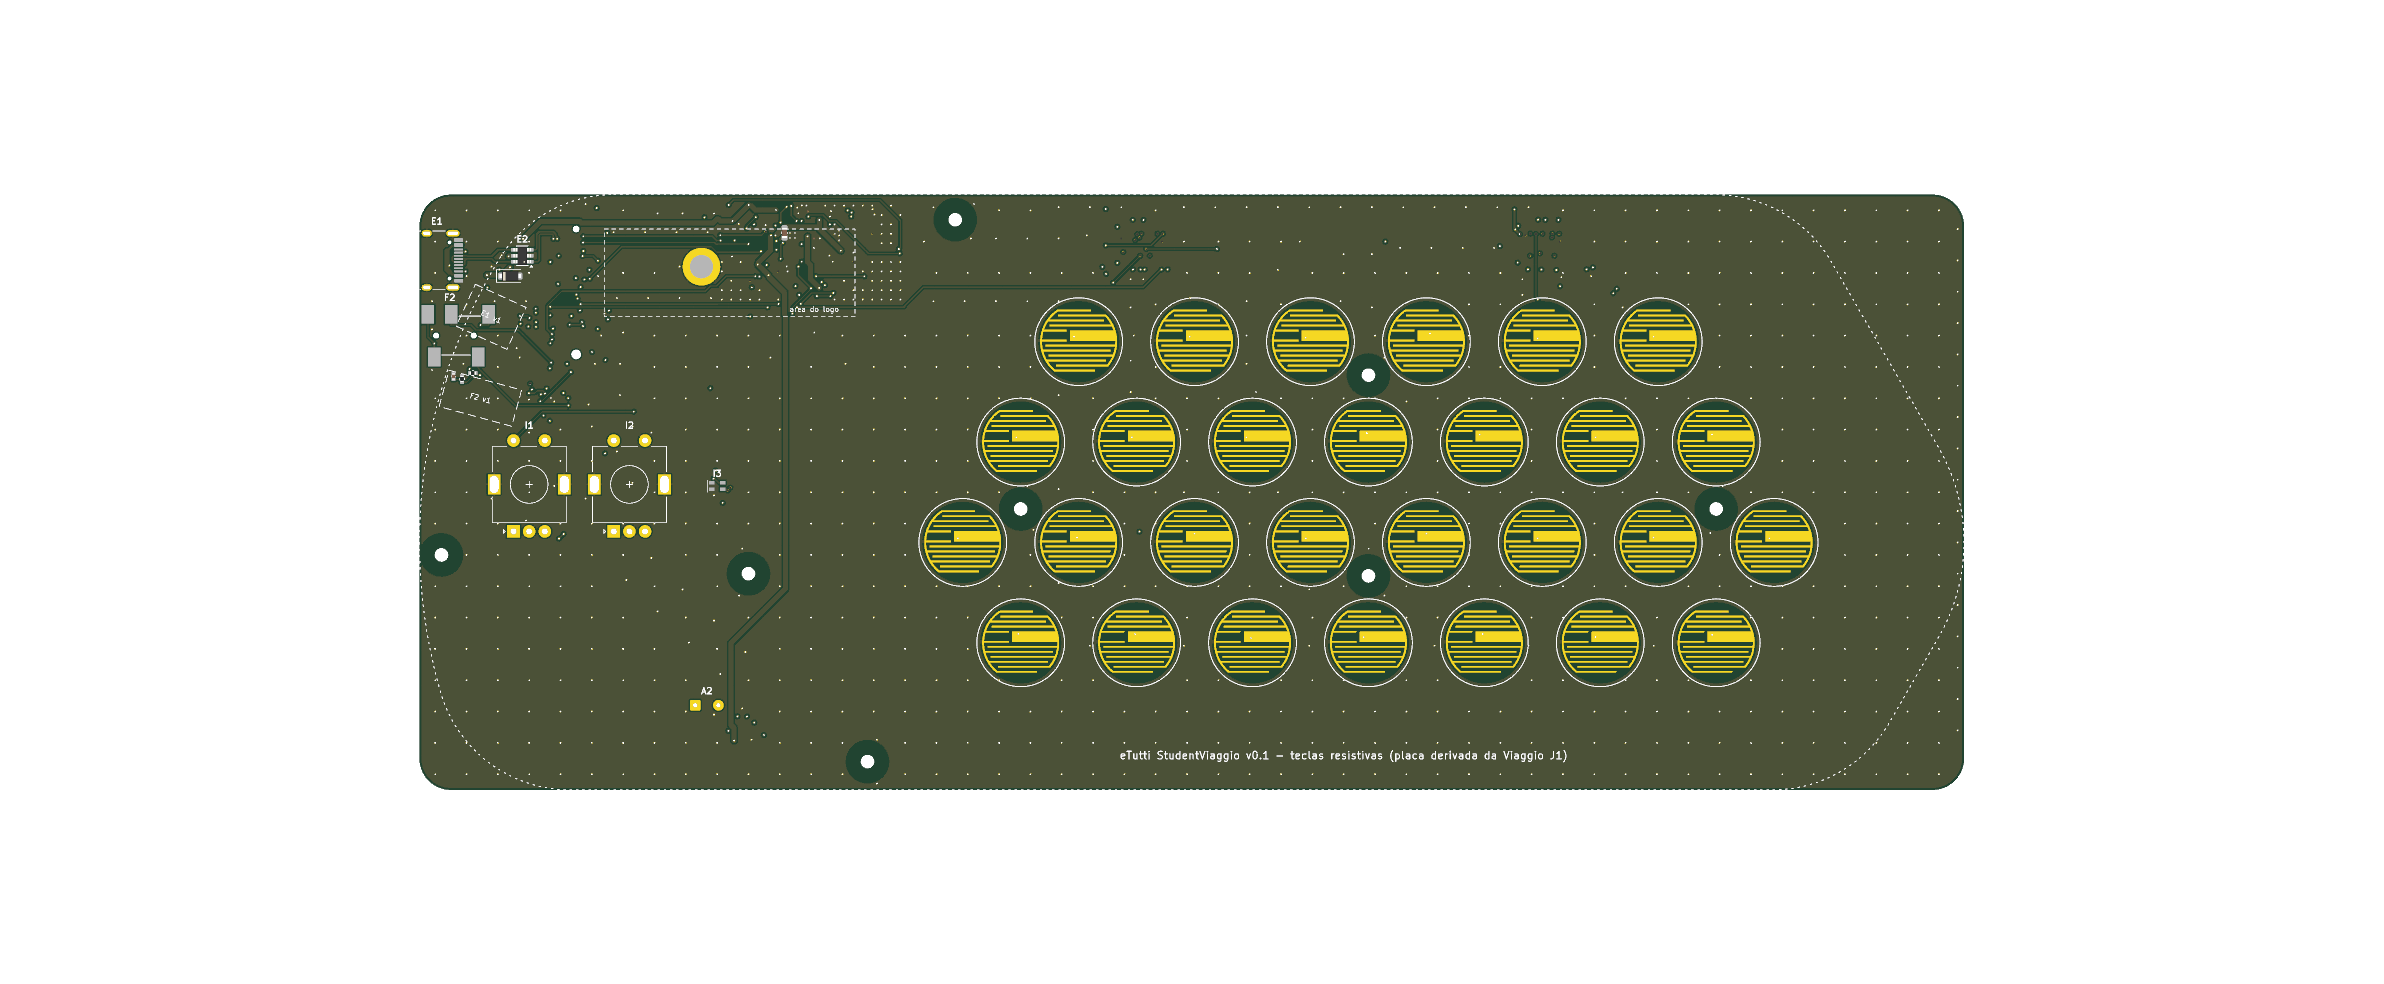
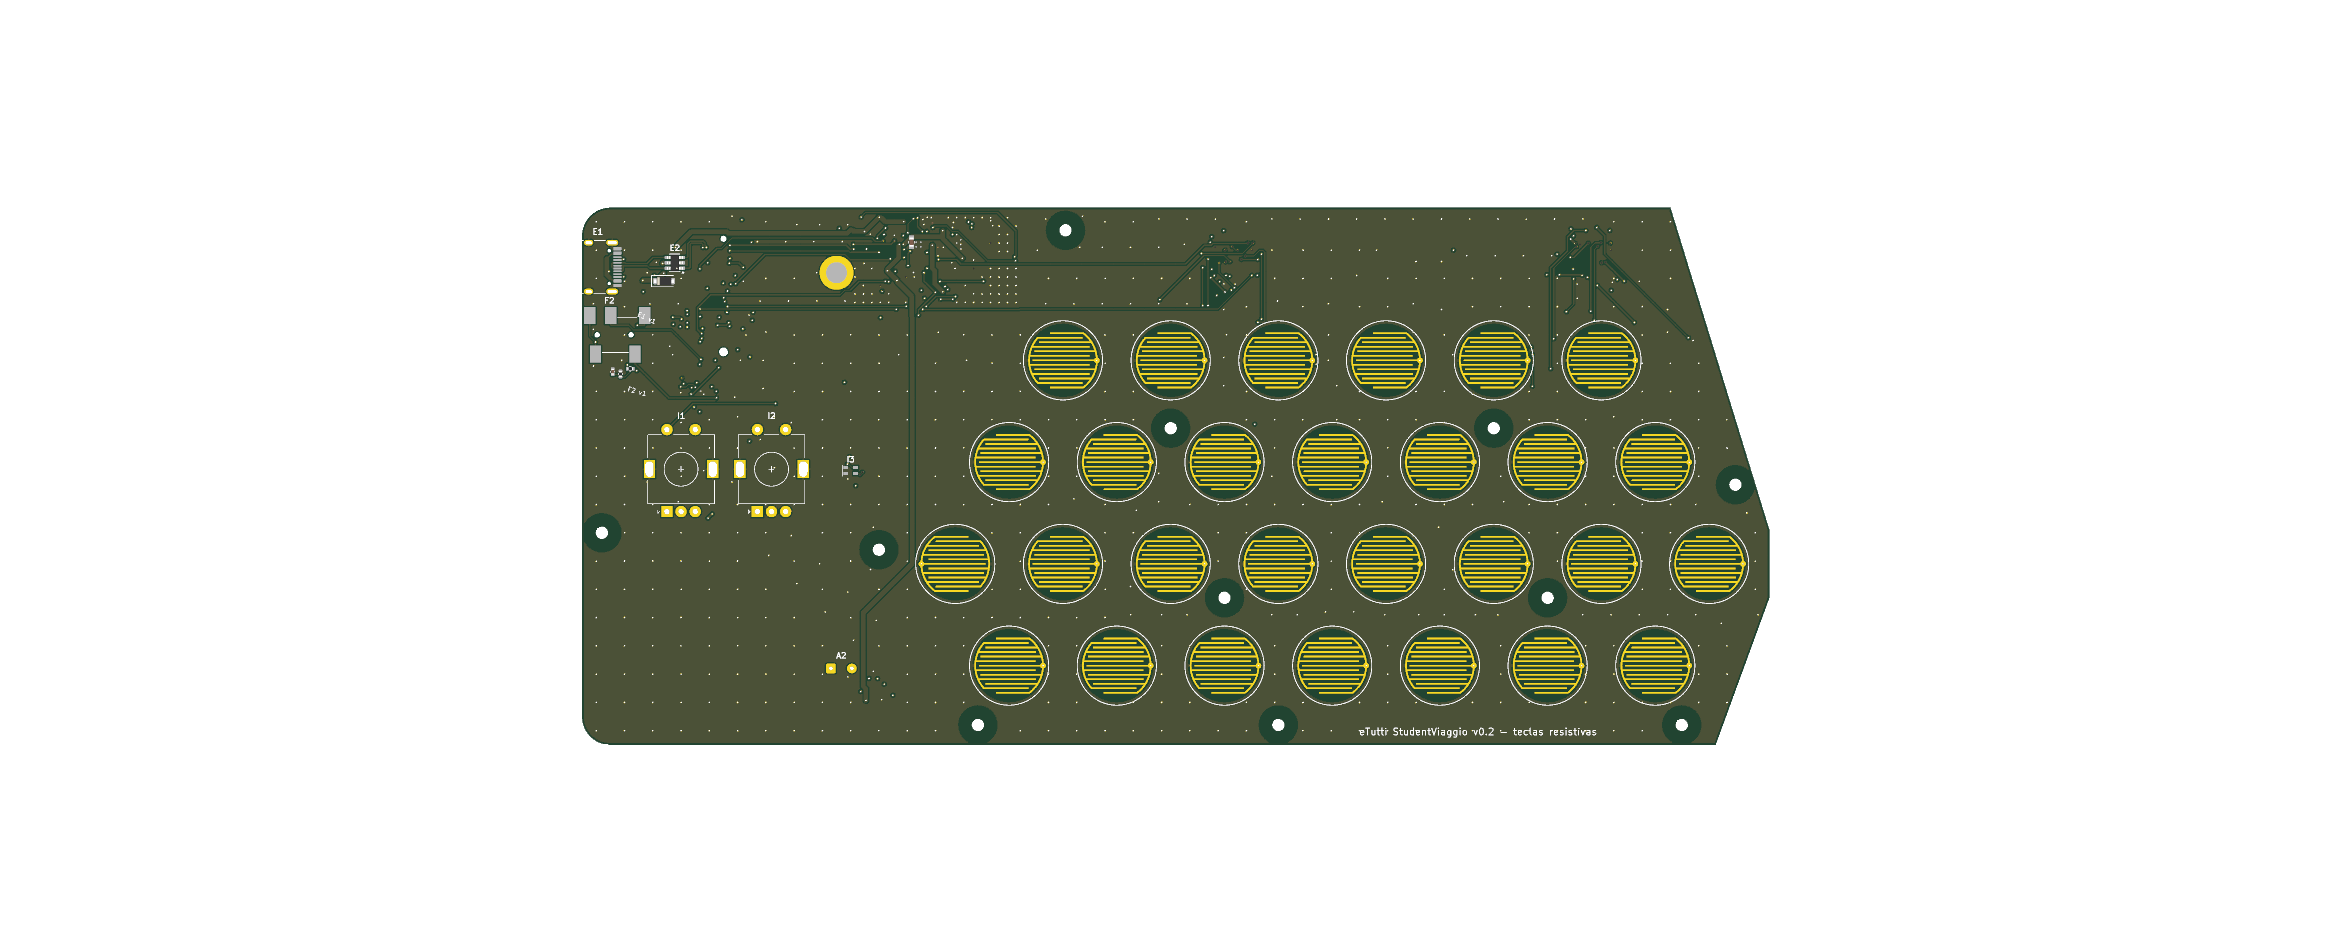
StudentViaggio v0.2: flex check, pictures, report
- mechanics.py: handles a pillar on a key's own grid node, own caption; 0.122 mm
  on the 11 holes alone, 0.039 mm with 6 proposed case pillars (flexao.json).
- README.md rewritten for the compact board; new board and key pictures
  (tecla_img.py); PINOS.md regenerated; handoff notes removed.
- CLAUDE.md: v0.2 summary, run order, routing gotcha.

Changed region(s): [[0.1552, 0.1828, 0.838, 0.8225], [0.2793, 0.7006, 0.3104, 0.7311]]

diff --git a/etutti/hardware/student_viaggio/pcb/mechanics.py b/etutti/hardware/student_viaggio/pcb/mechanics.py
@@ -47,6 +47,35 @@ def inside(p, margin):
     return True
 
 
+def sag(gr, supports, loads):
+    """M.Grillage.sag, plus keys that sit right on a support (0 mm). The back of this board is
+    free under the keys, so a pillar can land on a key's own grid node; the J1's never could."""
+    fixed = {gr.nearest(x, y) for x, y in supports}
+    live = [i for i, p in enumerate(loads) if gr.nearest(*p) not in fixed]
+    out = [0.0] * len(loads)
+    for i, v in zip(live, gr.sag(supports, [loads[i] for i in live])):
+        out[i] = v
+    return out
+
+
+def caption(path, n_holes):
+    """M.picture writes the J1's caption: put this board's over it."""
+    from PIL import Image, ImageDraw, ImageFont
+    img = Image.open(path)
+    d = ImageDraw.Draw(img)
+    try:
+        f = ImageFont.truetype("arial.ttf", 13)
+    except OSError:
+        f = ImageFont.load_default()
+    d.rectangle([0, 0, img.width, 38], fill=(255, 255, 255))
+    d.text((6, 4), "StudentViaggio v0.2 - flexao a 3 N por tecla (grelha 4 mm, placa nua de 1,2 mm), vista de cima."
+           " Azul: furos M2. Vermelho: pilares propostos.",
+           fill=(0, 0, 0), font=f)
+    d.text((6, 20), "Numero em cada tecla: flexao em centesimos de mm, so com os %d furos / com os pilares." % n_holes,
+           fill=(0, 0, 0), font=f)
+    img.save(path)
+
+
 def main():
     import pcbnew
     b = pcbnew.LoadBoard(BOARD)
@@ -67,7 +96,7 @@ def main():
     gr = M.Grillage()
     loads = [(x, y) for _r, x, y in keys]
     sup = [(x, y) for _r, x, y in holes]
-    s0 = gr.sag(sup, loads)
+    s0 = sag(gr, sup, loads)
     spots = [p for p in M.free_spots(boxes, holes) if inside(p, 3.0)]
     pillars, s = [], list(s0)
     while max(s) > M.TARGET_MM and len(pillars) < 60:
@@ -78,7 +107,7 @@ def main():
         if pick is None:
             break
         pillars.append(pick)
-        s = gr.sag(sup + pillars, loads)
+        s = sag(gr, sup + pillars, loads)
     w0 = max(range(len(keys)), key=lambda i: s0[i])
     w1 = max(range(len(keys)), key=lambda i: s[i])
     res = {
@@ -95,7 +124,9 @@ def main():
         "lugares_livres_no_verso": len(spots),
     }
     json.dump(res, open(os.path.join(HERE, "flexao.json"), "w", encoding="utf-8"), indent=1, ensure_ascii=False)
-    M.picture(keys, holes, pillars, s0, s, spots, os.path.join(HERE, "..", "img", "flexao.png"))
+    png = os.path.join(HERE, "..", "img", "flexao.png")
+    M.picture(keys, holes, pillars, s0, s, spots, png)
+    caption(png, len(holes))
     print("so os %d furos: %.3f mm (pior %s); %d pilares propostos -> %.4f mm (pior %s); %d lugares livres"
           % (len(holes), max(s0), keys[w0][0], len(pillars), max(s), keys[w1][0], len(spots)))
 

diff --git a/etutti/hardware/student_viaggio/pcb/tecla_img.py b/etutti/hardware/student_viaggio/pcb/tecla_img.py
@@ -1,0 +1,46 @@
+"""Draw one electrode (img/tecla.png) from footprints.comb_shapes(): yellow = GND, orange = signal.
+
+    python etutti/hardware/student_viaggio/pcb/tecla_img.py        (needs Pillow)
+"""
+import math
+import os
+
+from PIL import Image, ImageDraw
+
+import footprints as F
+
+HERE = os.path.dirname(os.path.abspath(__file__))
+S, R = 60.0, 8.0                    # pixels per mm, half the picture in mm
+COL = {"1": (230, 200, 40), "2": (240, 120, 60)}
+
+
+def P(x, y):
+    return ((x + R) * S, (y + R) * S)
+
+
+def main():
+    img = Image.new("RGB", (int(2 * R * S), int(2 * R * S)), (92, 110, 58))
+    d = ImageDraw.Draw(img)
+    k = F.COMB_KEEPOUT_R
+    d.ellipse([P(-k, -k), P(k, k)], fill=(32, 58, 42))
+    for pad, kind, cx, cy, w, h, ang, _exposed in F.comb_shapes():
+        if kind == "circle":
+            d.ellipse([P(cx - w / 2, cy - w / 2), P(cx + w / 2, cy + w / 2)], fill=COL[pad])
+            continue
+        a = math.radians(-ang)
+        ux, uy = math.cos(a), math.sin(a)
+        if kind == "oval":          # a round-ended stroke along its long axis
+            l = (w - h) / 2
+            d.line([P(cx - ux * l, cy - uy * l), P(cx + ux * l, cy + uy * l)], fill=COL[pad], width=int(h * S))
+            for s in (-1, 1):
+                q = (cx + s * ux * l, cy + s * uy * l)
+                d.ellipse([P(q[0] - h / 2, q[1] - h / 2), P(q[0] + h / 2, q[1] + h / 2)], fill=COL[pad])
+        else:
+            d.rectangle([P(cx - w / 2, cy - h / 2), P(cx + w / 2, cy + h / 2)], fill=COL[pad])
+    vx, vy = F.COMB_VIA
+    d.ellipse([P(vx - 0.15, vy - 0.15), P(vx + 0.15, vy + 0.15)], fill=(0, 0, 0))     # the via's drill
+    img.save(os.path.join(HERE, "..", "img", "tecla.png"))
+
+
+if __name__ == "__main__":
+    main()

diff --git a/etutti/hardware/student_viaggio/README.md b/etutti/hardware/student_viaggio/README.md
@@ -1,8 +1,8 @@
-# eTutti StudentViaggio · v0.1 (14 nov 2026)
+# eTutti StudentViaggio · v0.2 (14 nov 2026)
 
-A **StudentViaggio** é a placa do **Viaggio J1** (`../viaggio_j1/`) com as 28 teclas de efeito Hall trocadas por **teclas resistivas**: um pente de cobre por tecla, sob uma folha sensível à pressão. Tudo o mais é a J1 como está: módulo SparkFun MicroMod Teensy no conector M.2, USB-C, carga, conversor de 3,3 V, codec, amplificador, encoders, LED.
+A **StudentViaggio** tem a eletrônica do **Viaggio J1** (`../viaggio_j1/`) e **teclas resistivas** no lugar das 28 teclas de efeito Hall: um pente de cobre por tecla, sob uma folha sensível à pressão (Velostat). A v0.2 é a placa **compacta**: 210 × 95 mm, ponta à direita, teclas no passo 19,05 × 18 mm.
 
-Ela substitui o rascunho `student/` / `studentBK/` (v20), que não podia ser fabricado.
+Ela substitui a v0.1 (a J1 inteira, 246,5 × 95 mm) e o rascunho `student/` / `studentBK/` (v20), que não podia ser fabricado. Do rascunho ficaram a forma, o passo e a ideia dos apoios.
 
 **Estado:** esquema e placa prontos e conferidos. **Não há ainda** arquivos de fabricação (Gerbers, BOM/CPL da JLC) nem firmware para as teclas resistivas. Nada foi construído.
 
@@ -10,33 +10,40 @@ Ela substitui o rascunho `student/` / `studentBK/` (v20), que não podia ser fab
 
 ## O que mudou em relação à J1
 
-| | Viaggio J1 | StudentViaggio |
+| | Viaggio J1 | StudentViaggio v0.2 |
 |---|---|---|
 | Tecla | Gateron magnético + TMAG5253 no verso | pente de cobre no lado de cima (`FSR_Comb_D12`) |
 | Peças por tecla | chave, sensor, capacitor | nenhuma (cobre da placa) |
+| Grade das teclas | a do Pocket (18,5 mm, hexagonal) | 19,05 × 18 mm, fileiras de 7 / 8 / 7 / 6 |
+| Contorno | 246,5 × 95 mm, retangular | 210 × 95 mm, ponta à direita |
+| Furos M2 | 8 | 11 (H1–H4 onde a J1 os tem; H5–H8 movidos; H9–H11 novos) |
 | Alimentação dos sensores | 3 portas lógicas, grupos `EN_A`/`EN_B`, `SENS_EN` | não existe; o pino 4 do Teensy ficou livre |
 | Referência da leitura | — | R601 e R602, 10 k ao 3,3 V no comum de cada mux |
-| Footprints na placa | 178 | 120 (88 saíram, 30 entraram: 28 pentes, 2 resistores) |
+| Footprints na placa | 178 | 123 (51 em cima, 72 no verso) |
 | Placa de apoio das chaves (plate) | precisa | não precisa |
-| Contorno, furos, camadas, regras | 246,5 × 95 mm, 4 camadas, 1,2 mm | iguais |
+| Camadas, espessura, regras | 4 camadas, 1,2 mm | iguais |
 
-- As peças que saíram somam cerca de US$ 13 por placa na estimativa do `bom_preliminar.csv` da J1 (28 sensores a US$ 0,45, mais capacitores e portas). As 28 chaves Gateron e a plate, compradas à parte, também saem.
+- **O bloco esquerdo é o da J1, sem mexer** (x ≤ 78 mm): módulo MicroMod, USB-C, carga, conversor de 3,3 V, codec, amplificador, encoders, LED, com o roteamento dela. Os dois mux também ficaram onde estavam, na faixa de cima.
 - Os canais dos multiplexadores são os da J1. A tabela está em `pcb/PINOS.md`.
 
 ## Como a tecla funciona
 
-![uma tecla](img/tecla_K10.png)
+![uma tecla](img/tecla.png)
 
-- **Amarelo = GND**, **laranja = sinal** (entrada do mux). Dedos de 0,3 mm, vão de 0,5 mm (mínimo 0,43 mm nas pontas), cobre exposto.
+- **Amarelo = GND**, **laranja = sinal** (entrada do mux). Dedos de 0,3 mm, vão de 0,5 mm, cobre exposto.
+- O pente da v0.2 é simétrico: o dedo de sinal passa pelo centro e a via de sinal fica num ressalto do arco direito, fora da área que o dedo aperta. O bloco de sinal da v0.1 saiu.
 - Uma folha condutiva sensível à pressão fica sobre o pente. Apertar a folha liga os dedos com uma resistência que cai com a força.
 - R601/R602 e a tecla formam um divisor: `V = 3,3 V × Rtecla / (Rtecla + 10 k)`. Solta = 3,3 V.
 - **Velocidade:** a firmware mede quão depressa a tensão cai nos primeiros milissegundos do toque. A mesma leitura dá **pressão contínua depois da nota** (aftertouch por tecla), que as teclas Hall não davam.
-- O bloco laranja no meio cobre a via de sinal que a J1 já trazia até o centro de cada tecla. Por isso as 28 rotas das teclas foram mantidas.
 - O pente comum é o GND, não o 3,3 V: o que fica mais perto do dedo é o terra.
 
 ## Como a placa é feita
 
-Dois scripts, nesta ordem, a partir da raiz do repositório:
+A partir da raiz do repositório, nesta ordem:
+
+```bash
+python etutti/hardware/student_viaggio/pcb/layout.py
+```
 
 ```bash
 python etutti/hardware/student_viaggio/pcb/schematic.py
@@ -47,12 +54,17 @@ python etutti/hardware/student_viaggio/pcb/schematic.py
 ```
 
 ```bash
+"C:/Program Files/KiCad/10.0/bin/python.exe" etutti/hardware/student_viaggio/pcb/mechanics.py
+```
+
+```bash
 python etutti/hardware/student_viaggio/pcb/pinos.py
 ```
 
+- `layout.py` escreve o contorno, os centros das teclas e os furos em `pcb/layout.json` (e `img/layout.svg`).
 - `schematic.py` escreve o esquema (cópia do gerador do Viaggio MicroMod, folha T refeita), roda o ERC e compara a netlist com a da J1.
-- `build_board.py` lê a placa da J1 **sem escrever nela**, tira o setor das teclas, põe os pentes e os dois resistores, e refaz só as ligações que cruzavam as teclas, com o roteador da J1 (`viaggio_j1/rota_restante.py`).
-- `pinos.py` escreve o `pcb/PINOS.md`.
+- `build_board.py` lê a placa da J1 **sem escrever nela**, tira as teclas e tudo o que ficou fora do contorno novo, põe os pentes e os dois resistores, e roteia de novo as 28 teclas com o roteador da J1 (`viaggio_j1/rota_restante.py`). **Leva de 10 a 15 minutos**: rodar em segundo plano.
+- `mechanics.py` calcula a flexão (`pcb/flexao.json`, `img/flexao.png`); `pinos.py` escreve o `pcb/PINOS.md`; `tecla_img.py` desenha `img/tecla.png`.
 
 O projeto KiCad é `pcb/kicad/student_viaggio.kicad_pro`.
 
@@ -66,17 +78,30 @@ O projeto KiCad é `pcb/kicad/student_viaggio.kicad_pro`.
 | Ligações abertas | 0 |
 | Paridade esquema × placa | 0 diferenças |
 | Teclas ligadas a exatamente uma entrada de mux | 28 de 28 |
-| Cobre alheio dentro dos pentes (raio 6,5 mm, lado de cima) | nenhum; só a via de sinal de cada tecla |
-| Menor vão entre os dois eletrodos | 0,43 mm |
+| Trilhas de outras redes sob os pentes, no lado de cima | nenhuma |
+| Vias dentro do círculo de 6,5 mm de cada pente | só a via de sinal da tecla, mais uma de `OUT_K11` na borda do K25 (a 6,46 mm do centro, 0,3 mm fora do arco do pente) |
 
-O que o `build_board.py` mexeu na J1:
+O que o `build_board.py` fez:
 
-- **Saíram:** 88 peças, as 192 trilhas e vias de `EN_A`/`EN_B`/`NS3`/`SENS_EN`, 10 trilhas do lado de cima e 195 vias que caíam dentro dos pentes (157 de GND, 35 de +3V3, 3 de sinal), mais os tocos que sobraram.
-- **Refeitas pelo roteador:** `OUT_K03`, `OUT_K21`, `OUT_K23`, `OUT_K25`, `OUT_K28` e `MUX_S2` (passavam por cima de teclas), os dois comuns dos mux até os resistores novos, e 10 ligações de GND/+3V3. Nenhuma falha.
-- **Vias novas:** K03 e K09 não tinham via no centro; ganharam uma.
-- As 3 violações de largura que a J1 tinha eram da rede `EN_B`, que não existe mais.
+- **Saíram:** 88 peças, as 535 trilhas e vias das teclas e dos sensores da J1, 186 fora do contorno novo, 27 sob os furos movidos e 173 vias de GND/+3V3 que caíam dentro dos pentes, mais os tocos que sobraram.
+- **Roteadas de novo:** as 28 redes `OUT_Kxx`, `MUX_S0`, os dois comuns dos mux até R601/R602 e 5 ligações de GND/+3V3. Fechou na sexta tentativa, sem falhas.
+- **As rotas das teclas:** 1,58 m de trilha no total, 85 vias, quase tudo no verso (1,33 m; 0,21 m em cima; 0,05 m na camada interna de sinal). A mais longa é a do K01, com 89 mm.
+- O pente do K08 está girado 180° (a via de sinal não cabia à direita).
+- Nenhuma rede de corrente perdeu cobre: o script para se isso acontecer.
 
-Não conferido: nenhuma medida com a folha sensível real; alturas e mecânica (não há case nem botões para esta versão); flexão da placa sem a plate.
+### Flexão, áudio e calor
+
+![flexão](img/flexao.png)
+
+- **Flexão** (grelha de vigas de 4 mm, placa nua de 1,2 mm, 3 N numa tecla por vez; não há plate para ajudar):
+  - só com os 11 furos M2: pior tecla **0,122 mm** (K28), média 0,048 mm. Acima do alvo de 0,05 mm.
+  - com **6 pilares** de 4 mm no case, em (182,5; 29,5), (144,5; 29,5), (154,5; 83,5), (78,5; 47,5), (97,5; 83,5) e (201,5; 65,5): pior tecla **0,039 mm** (K12), média 0,019 mm.
+  - O verso está livre sob as teclas, então quatro desses pilares caem bem embaixo de uma tecla. Há 3779 lugares livres no verso; o case pode pôr mais.
+  - O modelo conta os dois cantos cortados da ponta como placa, então é um pouco otimista ali.
+- **Áudio:** as rotas novas das teclas ficam em x de 62,5 a 198 mm. A trilha de tecla mais próxima de uma trilha de áudio na mesma camada está a 24,6 mm (`OUT_K08` de `SPK_P`). O codec, a saída de fone e o amplificador não foram tocados.
+- **Calor:** carga, conversor e amplificador estão nas posições da J1, com o cobre dela. As teclas não aquecem: cada uma passa no máximo 0,33 mA (3,3 V sobre 10 k), uma por vez.
+
+Não conferido: nenhuma medida com a folha sensível real; alturas e mecânica (não há case nem botões para esta versão).
 
 ## Opções para as teclas resistivas
 
@@ -122,6 +147,6 @@ A placa hoje: conector M.2 Key E + módulo SparkFun MicroMod Teensy (DEV-16402),
 ## Perguntas para a gestão
 
 1. A Student entra no protocolo com SPEC própria, ou segue como variante da SPEC do Viaggio MicroMod?
-2. O miolo de sinal (bloco laranja) tira área sensível do lado direito do pente. Aceitável no protótipo, ou vale mover as 28 vias para um miolo menor?
+2. A placa nua passa do alvo de flexão (0,122 mm) só com os 11 furos. O case desta versão terá os 6 pilares propostos, ou vale engrossar a placa para 1,6 mm?
 3. Haverá botão sobre a folha nesta versão? Disso dependem a altura e o case.
 4. As pastas `student/` e `studentBK/` (v20, fora do Git) podem ser apagadas?

diff --git a/CLAUDE.md b/CLAUDE.md
@@ -475,14 +475,22 @@ through the Write tool into the scratchpad.
 
 ## eTutti StudentViaggio (14 Nov 2026) — cheap first prototype, resistive keys
 
-`etutti/hardware/student_viaggio/` = the routed **Viaggio J1** board with the 28 Hall keys swapped
+`etutti/hardware/student_viaggio/` = the **Viaggio J1** electronics with the 28 Hall keys swapped
 for bare interdigitated electrodes (`FSR_Comb_D12`, pad 1 GND, pad 2 = the J1's `OUT_Kxx`) under a
 pressure-sensitive sheet; R601/R602 (10 k to +3V3) on the mux commons; Teensy pin 4 free. Its
 `README.md` (Portuguese) is the report: checks, options for the keys and for the MicroMod, open
 questions. No fab files and no firmware for these keys yet.
-- Run, in order: `python .../pcb/schematic.py` (ERC + netlist compared with the J1's),
-  KiCad python `.../pcb/build_board.py` (reads the J1 board, never writes it; reuses
-  `viaggio_j1/rota_restante.py` as the router; DRC 0/0, parity 0), `python .../pcb/pinos.py`.
+- **v0.2 (compact):** 210 × 95 mm, pointed right end, keys on a 19.05 × 18 grid (rows of
+  7/8/7/6), 11 M2 holes, all from `pcb/layout.py` → `layout.json`. The J1's left block (x ≤ 78)
+  and the two muxes stay where they are with their routing; the 28 key nets are routed again.
+  Flex: 0.122 mm on the holes alone, 0.039 mm with the 6 case pillars in `pcb/flexao.json`.
+- Run, in order: `python .../pcb/layout.py`, `python .../pcb/schematic.py` (ERC + netlist
+  compared with the J1's), KiCad python `.../pcb/build_board.py` (reads the J1 board, never
+  writes it; reuses `viaggio_j1/rota_restante.py` as the router; DRC 0/0, parity 0; **10-15 min,
+  run it in the background**; it retries up to 6 times with the failed nets first), KiCad python
+  `.../pcb/mechanics.py`, `python .../pcb/pinos.py`.
+- Routing gotcha: stubs left by the pruned nets must go **before** routing (`drop_dangling`), or
+  they block the mux inputs and the last key nets find no path.
 - The footprint library keeps the nickname `viaggio_micromod` and the schematic keeps the J1's
   uuid namespace, so the J1 footprints stay linked. Don't rename either.
 - **pcbnew gotcha:** after `board.Remove(footprint)`, keep the Python object alive (the script's
